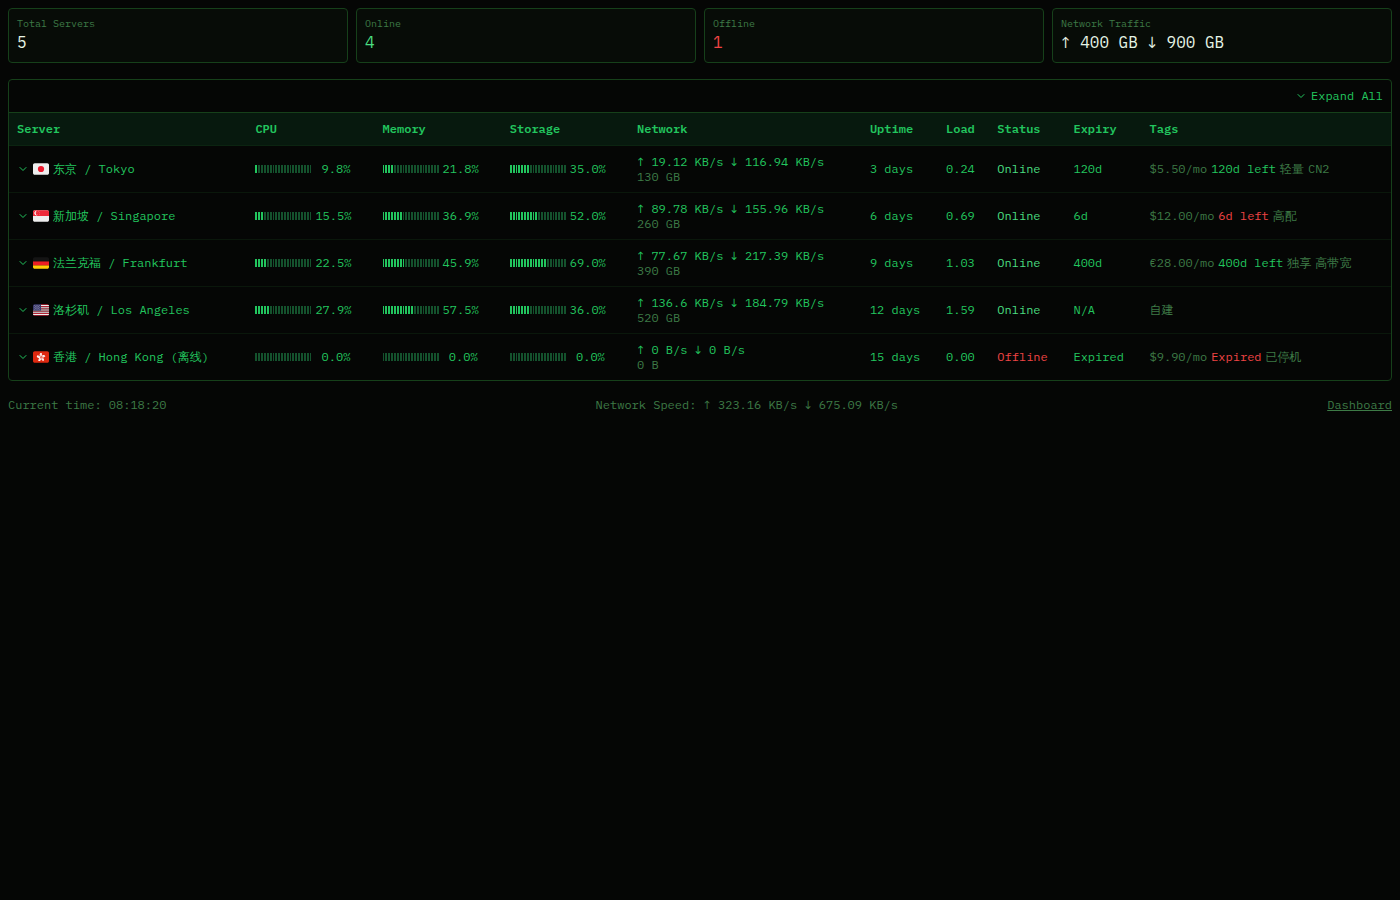
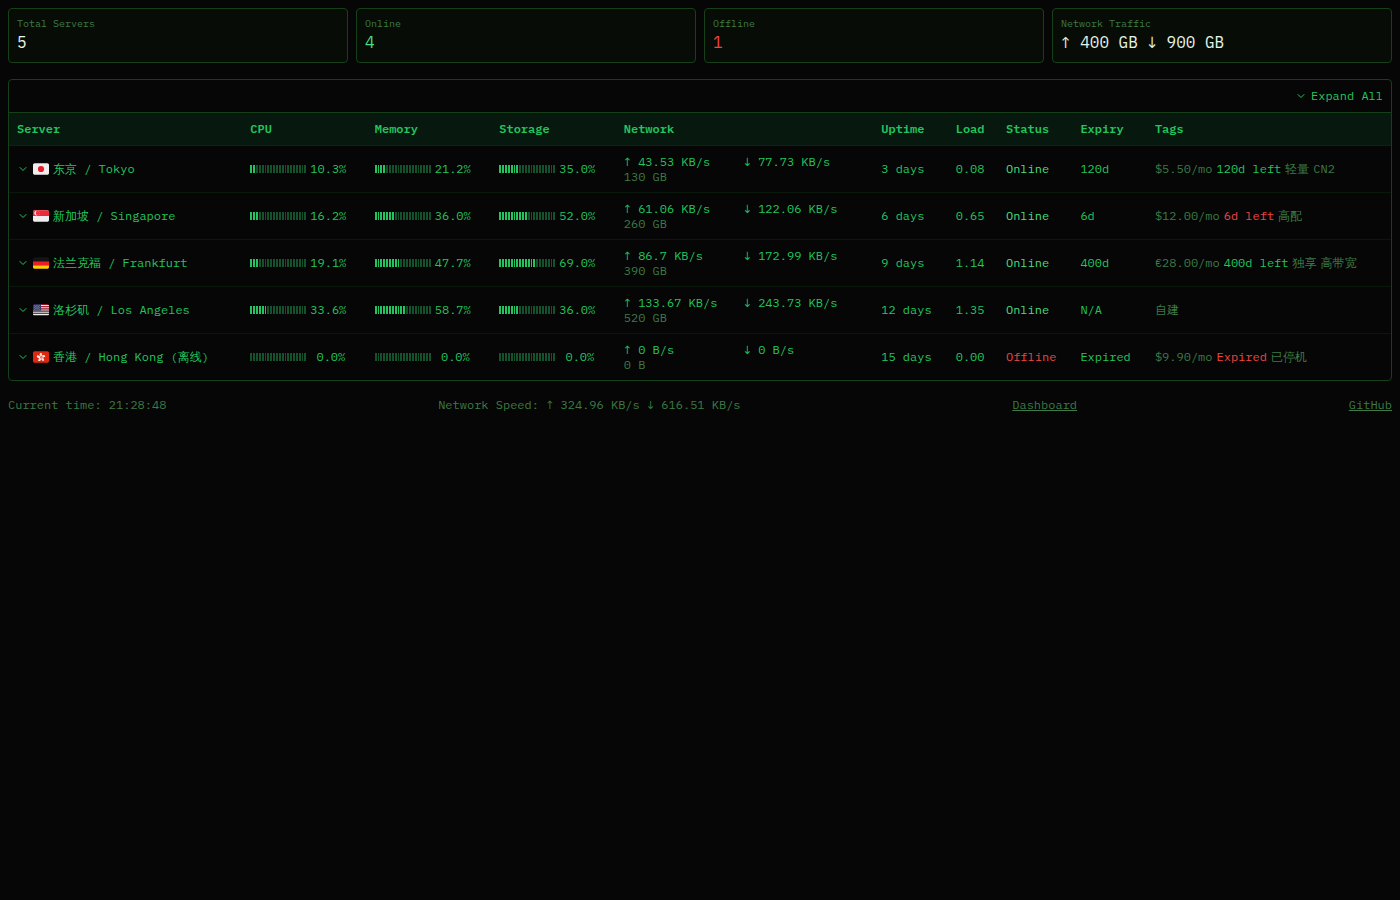
feat: stable network column, footer GitHub link, silent loader
- ServerTable: fixed-width upload segment + tabular-nums so the
  Network column no longer jitters as speeds toggle between units
- AsciiFooter: add GitHub repo link (https://github.com/facl/komari-ascii)
- loading: drop the blinking cursor block; pure black placeholder so
  no second cursor flashes after the boot screen

diff --git a/src/components/loading.tsx b/src/components/loading.tsx
@@ -7,10 +7,11 @@ type LoadingProps = {
 };
 
 /**
- * ASCII 终端风加载态：绿色光标块脉冲，黑底等宽字体。
+ * ASCII 终端风加载态：纯黑底，无光标无动画。
  *
- * 加载是最常出现的界面（配置初始化、路由懒加载），首屏必须与终端风一致，
- * 避免旧主题的衬线/暖金 spinner 闪现。
+ * 首屏 HTML 已有 "booting komari" 光标页，React 接管后到 dashboard 就绪前，
+ * 此组件作为占位——保持纯黑，与 boot 页和 dashboard 无缝衔接，不再出现
+ * 第二个跳动的光标。
  *
  * 此组件刻意保持纯组件（无 useLocale）：ConfigProvider 自身在初始化期间会渲染它，
  * 那时尚无 locale 上下文，故文案只能由调用方通过 text prop 传入。
@@ -18,10 +19,9 @@ type LoadingProps = {
 const Loading = ({ text, children, className }: LoadingProps) => {
   return (
     <div
-      className={`flex items-center justify-center flex-col w-full h-full ${
+      className={`flex items-center justify-center flex-col w-full h-full bg-[var(--ascii-background)] ${
         className || ""
       }`}>
-      <div className="ascii-loader" aria-label="Loading" role="status" />
       {text && (
         <p className="font-mono text-sm text-[var(--ascii-primary)] mt-4 tracking-wide">
           {text}

diff --git a/src/components/ascii/ServerTable.tsx b/src/components/ascii/ServerTable.tsx
@@ -122,11 +122,17 @@ export function ServerTable({
                     </div>
                   </td>
                   <td className="p-1 sm:p-2">
-                    <div className="flex flex-col leading-tight">
-                      <span>
-                        ↑ {formatSpeed(server.up)} ↓ {formatSpeed(server.down)}
+                    <div className="flex flex-col leading-tight whitespace-nowrap">
+                      {/* 固定宽度：上/下网速各占定宽列，避免数值随单位跳变时整列拉伸 */}
+                      <span className="flex">
+                        <span className="inline-block w-[7.5rem] tabular-nums">
+                          ↑ {formatSpeed(server.up)}
+                        </span>
+                        <span className="inline-block tabular-nums">
+                          ↓ {formatSpeed(server.down)}
+                        </span>
                       </span>
-                      <span className="text-[var(--ascii-muted)]">
+                      <span className="text-[var(--ascii-muted)] tabular-nums">
                         {formatBytes(server.net_out_transfer + server.net_in_transfer)}
                       </span>
                     </div>

diff --git a/src/components/ascii/AsciiFooter.tsx b/src/components/ascii/AsciiFooter.tsx
@@ -34,6 +34,13 @@ export function AsciiFooter({ upSpeed, downSpeed }: AsciiFooterProps) {
       <a href="/admin" className="underline hover:text-[var(--ascii-primary)]">
         Dashboard
       </a>
+      <a
+        href="https://github.com/facl/komari-ascii"
+        target="_blank"
+        rel="noopener noreferrer"
+        className="underline hover:text-[var(--ascii-primary)]">
+        GitHub
+      </a>
     </div>
   );
 }
